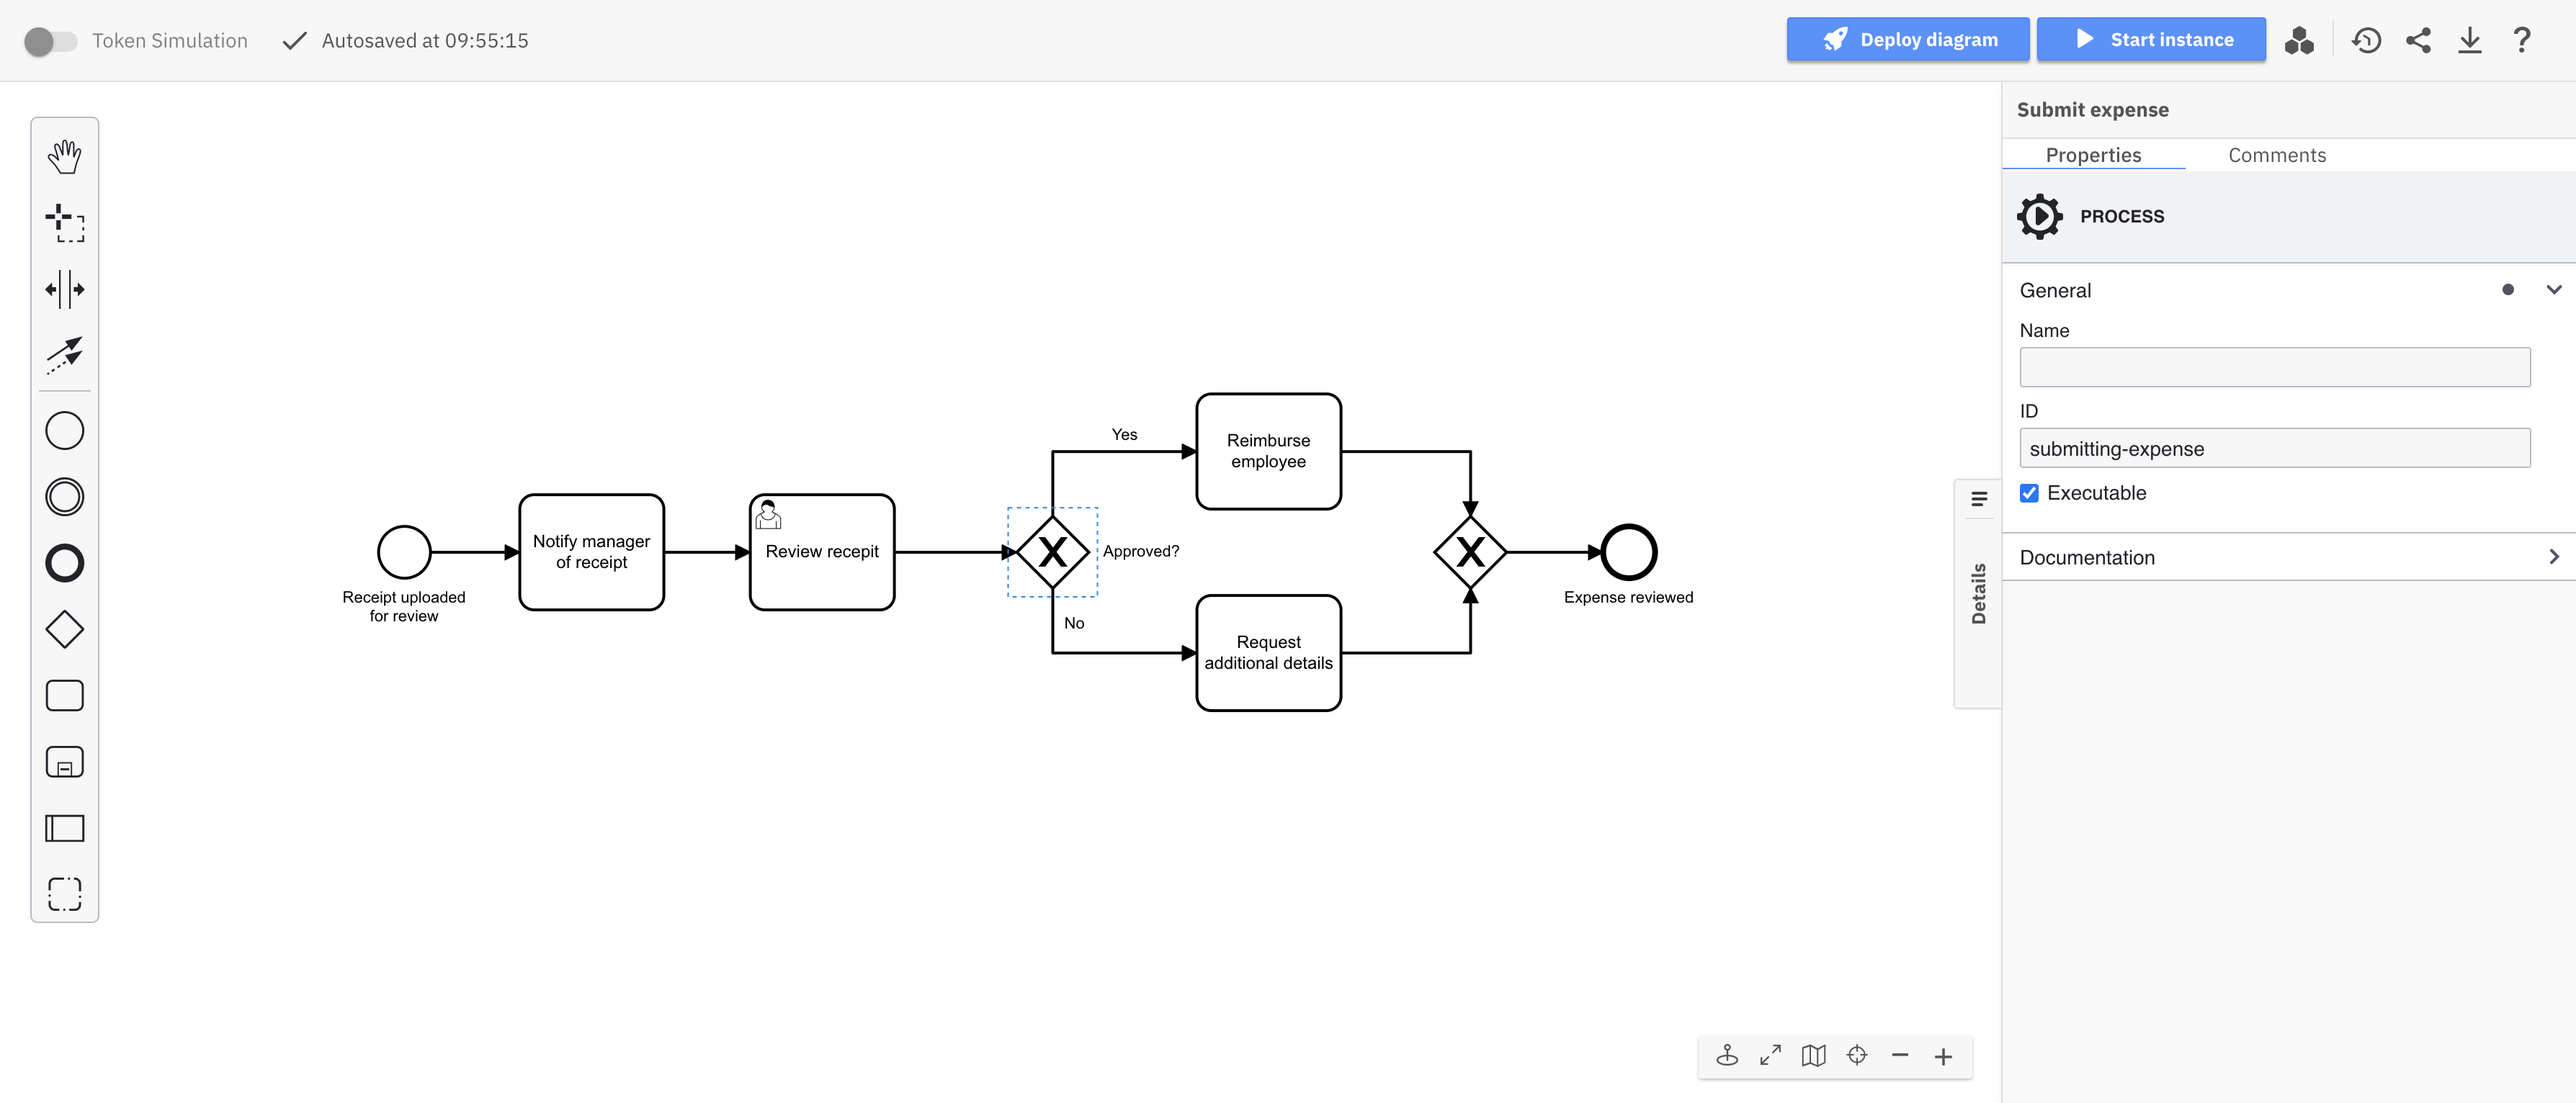
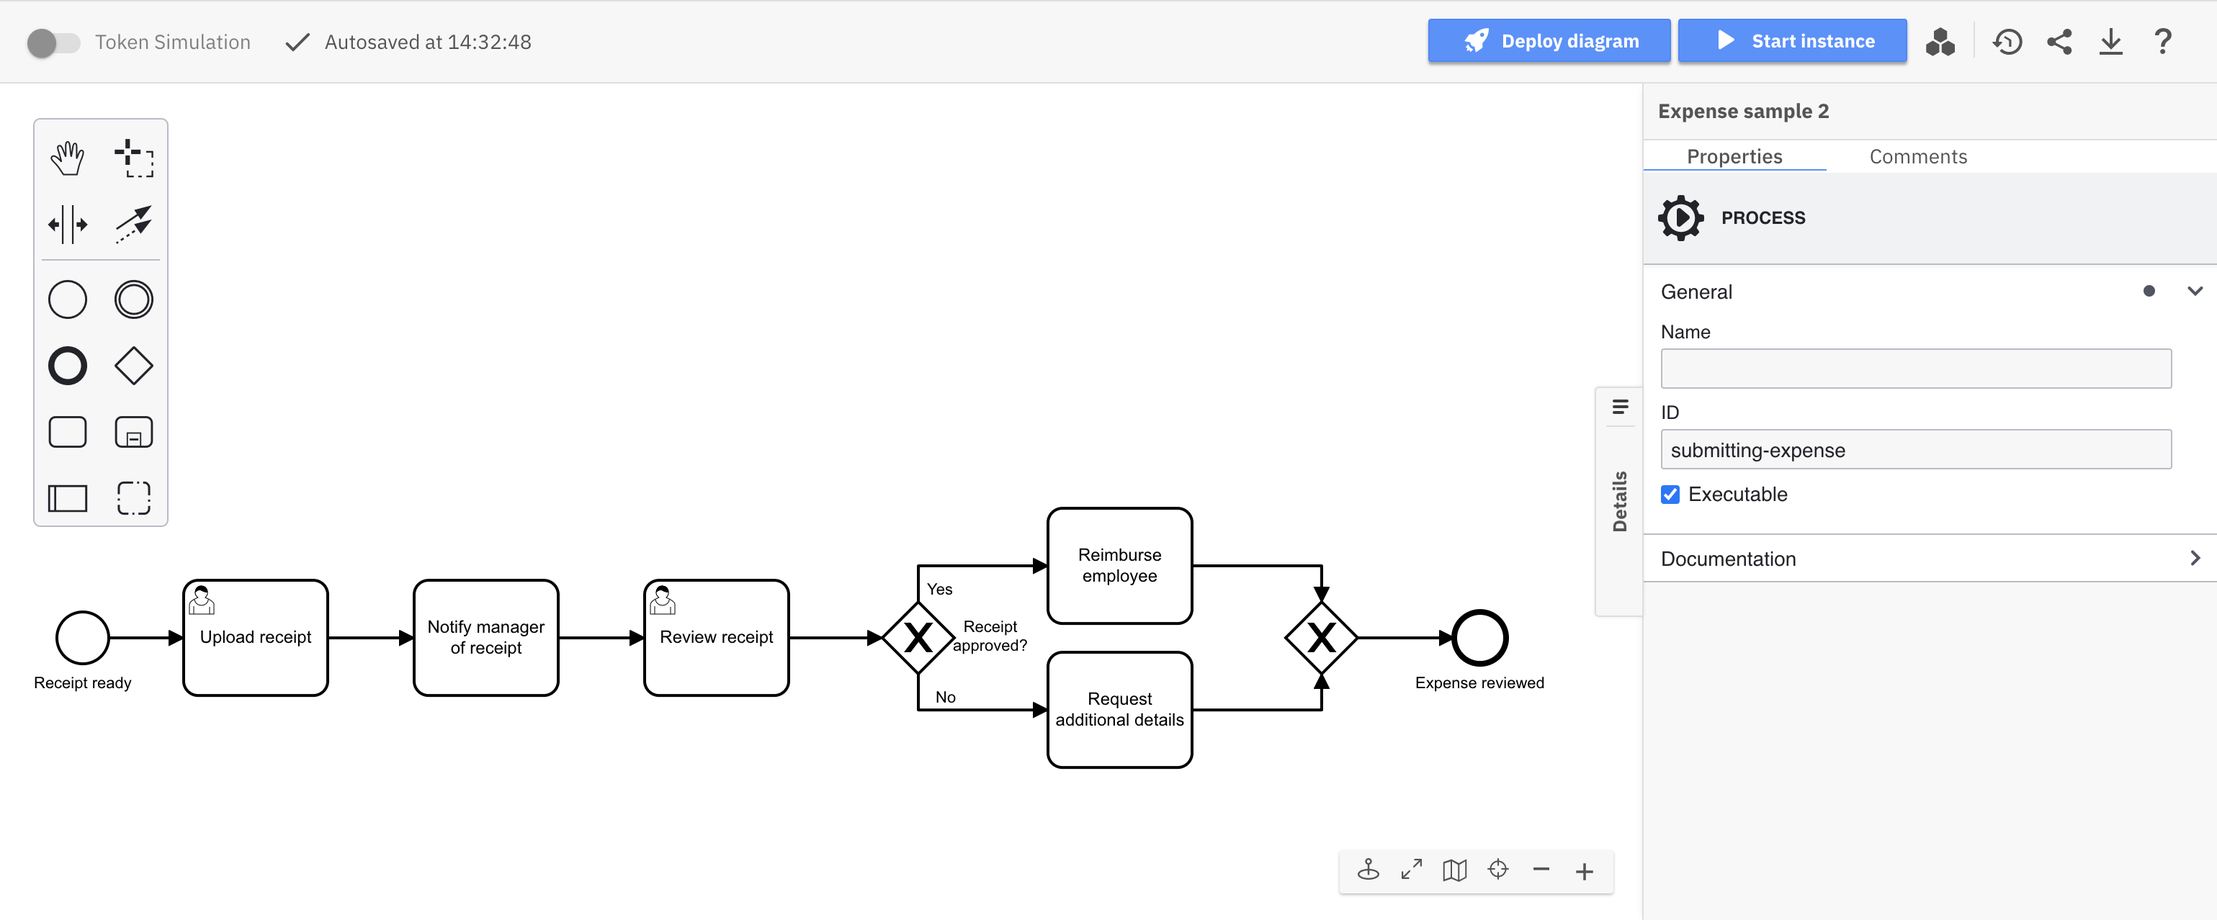
resolved comments and updated screenshots

diff --git a/docs/guides/implementing-connectors.md b/docs/guides/implementing-connectors.md
@@ -2,18 +2,20 @@
 id: implementing-connectors
 title: Implement connectors
 description: "Connectors communicate with any system or technology, reducing the time it takes to automate and orchestrate business processes across systems."
-keywords: [connector, modeling, connectors]
+keywords: [connector, modeling, connectors, low-code, no-code]
 ---
 
 The launch of [Camunda Platform 8](../components/concepts/what-is-camunda-platform-8.md) also introduced an integration framework with a key goal: integrate faster to reduce the time it takes to automate and orchestrate business processes across systems.
 
-This goal is achieved using [connectors](../components/modeler/web-modeler/connectors/index.md). Ready to use out of the box, connectors help automate complex [business processes](../components/concepts/processes.md) by inserting them into [BPMN diagrams](./automating-a-process-using-bpmn.md) within [Web Modeler](../components/modeler/about.md), and configuring them via the properties panel.
+[Connectors](../components/modeler/web-modeler/connectors/index.md) achieve this goal. Ready to use out of the box, connectors help automate complex [business processes](../components/concepts/processes.md) by inserting them into [BPMN diagrams](./automating-a-process-using-bpmn.md) within [Web Modeler](../components/modeler/about.md), and configuring them via the properties panel.
 
-Connectors technically consist of two parts: the business logic is implemented as a job worker, and the user interface during modeling is provided using an element template. In this guide, we'll walk step-by-step through the implementation of a sample connector.
+Connectors technically consist of two parts: the business logic is implemented as a [job worker](../components/concepts/job-workers.md), and the user interface during modeling is provided using an element template. In this guide, we'll walk step-by-step through the implementation of a sample connector.
 
 ## Set up
 
 We'll implement our connector with [Modeler](../components/modeler/about.md). To get started, ensure you’ve [created a Camunda Platform 8 account](./guides/create-account.md).
+
+You'll also need to [create a SendGrid account](https://signup.sendgrid.com/) if you do not have one already, as we'll use SendGrid in our example connector.
 
 ### Create a cluster
 
@@ -36,15 +38,16 @@ In this example, we've designed the following BPMN diagram:
 
 ![bpmn example diagram](./img/bpmn-expense-sample.png)
 
-[//]: # 'Do you want me to add steps for building out the sample diagram here? Or, would it be better to say something like "To learn more about building your own BPMN diagram from scratch, visit our guide on automating a process using BPMN."'
-[//]: # 'Do we want to change the diagram so the start event is "Receipt ready" and the first task is "Receipt uploaded?"'
+:::note
+To learn more about building your own BPMN diagram from scratch, visit our guide on [automating a process using BPMN](./automating-a-process-using-bpmn.md).
+:::
 
 ## Add a connector
 
 Here, a receipt is initially uploaded for review. The first task we need to complete is notifying the manager of the uploaded receipt. If we want to leverage our email service to notify the manager, we can utilize a productivity applications connector to replace this task.
 
 :::note
-Camunda offers a variety of available connectors and even has the opportunity to construct custom connectors. For example, utilize cloud connectors to communicate with cloud-native applications and conform to REST, GraphQL, or SOAP protocols. Or, employ service connectors to integrate with technology enablers like RPA, AI or IOT services. Learn more about our [available connectors](../components/modeler/web-modeler/connectors/available-connectors/index.md) to find out which may best suit your business needs.
+Camunda offers a variety of available connectors. For example, utilize cloud connectors to communicate with cloud-native applications and conform to REST, GraphQL, or SOAP protocols. Or, employ service connectors to integrate with technology enablers like RPA, AI or IOT services. Learn more about our [available connectors](../components/modeler/web-modeler/connectors/available-connectors/index.md) to find out which may best suit your business needs.
 :::
 
 To add our productivity applications connector, take the following steps:
